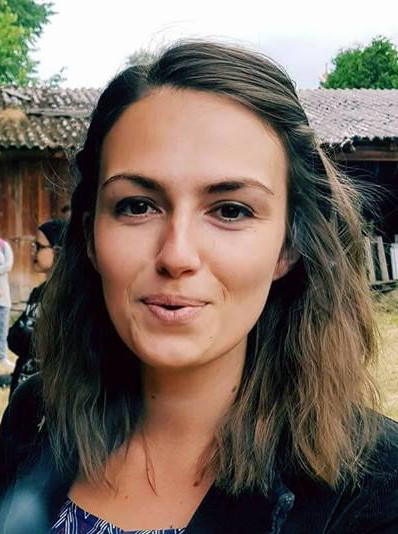
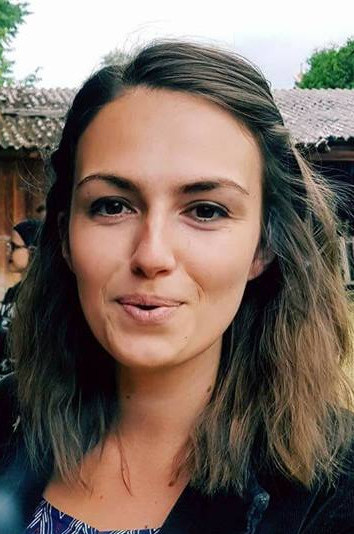
update

diff --git a/program/index.html b/program/index.html
@@ -5,11 +5,6 @@ description: Program Pirátů pro volby do zastupitelstva Jihočeského kraje.
 keywords: program, jihočeši, politika
 ---
 
-<em>
-  Program Pirátů pro volby do zastupitelstva Jihočeského kraje
-  konané ve dnech 7. a 8. října 2016.
-</em>
-
 <p>
   Naším cílem je kraj nové generace, kde může každý člověk svůj život prožít svobodně a naplno. Klíčem k prosperitě naší společnosti je otevřenost, transparentnost, svoboda informací, kvalitní veřejné služby, použití nových technologií a zapojení občanů
   do rozhodování. Piráti nabízí alternativu kraje bez korupce, nesmyslných dotací, politických trafik a klientelismu. Chceme, aby krajské úřady nebyly pro aktivní občany byrokratickou překážkou, nýbrž příležitostí zapojit se do veřejného dění a kultivace

diff --git a/kontakt/index.html b/kontakt/index.html
@@ -17,12 +17,24 @@ rbar: video, fb
   </div>
 </div>
 
-<h2>Kontakt</h2>
+
+<h3>Krajské předsednictvo</h3>
+
+<p>
+  Lukáš Kolářík (předseda, lídr parlamentních voleb), <a href="mailto:lukas.kolarik@pirati.cz">lukas.kolarik@pirati.cz</a>
+</p>
+
+<h3>místopředsedové</h3>
+
 <ul>
-  <li>
-    Lukáš Kolářík (předseda, lídr parlamentních voleb), <a href="mailto:lukas.kolarik@pirati.cz">lukas.kolarik@pirati.cz</a>
-  </li>
-  <li>
-    Jana Rohová (media, PR), <a href="mailto:jana.rohova@pirati.cz">jana.rohova@pirati.cz</a>
-  </li>
-<ul>
+  <li>Mgr. Václav Urban</li>
+  <li>Simon Kostadinov</li>
+  <li>Michal Horák</li>
+  <li>Jindra Matlachová</li>
+</ul>
+
+<h3>koordinátorka</h3>
+
+<p>
+  Jana Rohová (media, PR), <a href="mailto:jana.rohova@pirati.cz">jana.rohova@pirati.cz</a>
+</p>

diff --git a/_includes/scripts.html b/_includes/scripts.html
@@ -11,8 +11,30 @@
   ga('create', 'UA-83055026-1', 'auto');
   ga('send', 'pageview');
 
-  var api_search = null
+  var api_search = []
+  var api_people = []
+  var page_leader = null
+  var page_contact = null
 
+</script>
+
+<script>
+var back_top = function() {
+  $(window).scroll(function() {
+      if ($(this).scrollTop() > 50 ) {
+          $('.scrolltop:hidden').stop(true, true).fadeIn();
+      } else {
+          $('.scrolltop').stop(true, true).fadeOut();
+      }
+  });
+  $(function(){
+    $(".scroll").click(function(){
+      $("html,body").animate(
+        {scrollTop: $(".thetop").offset().top}, "1000");
+      return false
+    }
+  )});
+}
 </script>
 
 <script src="https://www.pirati.cz/assets/js/common-libs.min.js"></script>

diff --git a/blog/index.html b/blog/index.html
@@ -1,10 +1,10 @@
 ---
-layout: page
+layout: default
 rbar: video, fb
 ---
 
 <div class="row o-section-block o-section-block--divided">
-  <div class="small-12 columns">
+  <div class="small-12 large-8 columns">
     <section class="o-section o-section--noSpaceBottom o-section--bigger">
       <div class="o-section-inner o-section-inner--leftBlock">
         {% for article in paginator.posts %}
@@ -15,6 +15,11 @@ rbar: video, fb
       </div>
     </section>
   </div>
+
+  <div class="medium-12 large-4 columns">
+    {% include rbar.html %}
+  </div>
+
 </div>
 
 {% include shared/article-list/pagination.html %}

diff --git a/_includes/title_hero.html b/_includes/title_hero.html
@@ -72,7 +72,7 @@
                 <div class="small-6 columns">
                   <a href="{{ 'volby' | relative_url }}" class="c-card c-card--border">
                     <div class="c-card-header">
-                      <div class="c-card__title"> Volby parlament 2017</div>
+                      <div class="c-card__title"> Parlamentní volby</div>
                     </div>
                     <div class="c-card__icon c-card__icon--pos2">
                       <i class="fa fa-newspaper-o u-rotate-345" aria-hidden="true"></i>

diff --git a/volby/index.html b/volby/index.html
@@ -7,7 +7,7 @@ rbar: video, fb
 ---
 
 <p>
-  Na podzim letošního roku se budou konat volby do parlamentu.
+  <b>20. 10. 2017 – 21. 10. 2017</b> se budou konat volby do parlamentu.
   <a href="http://pirati.cz" target="_blank">Česká pirátská strana</a> neprichází s ničím jiným než v minulosti.
   Neuhýbáme, neměníme program podle populistických témat.
   Od nás máte vše hezky <a href="http://cernenabilem2017.cz" target="_blank">černé na bílém</a>.

diff --git a/static/custom-style.css b/static/custom-style.css
@@ -1,6 +1,7 @@
 
 img.people {
   width: 150px;
+  height: 250px;
 }
 
 .top-bar-title {
@@ -21,6 +22,15 @@ article img {
 
 
 .c-welcome-header {
-  background: url('/assets/img/mainback.jpg') no-repeat;
+  background: none;
+  /*background: url('/assets/img/mainback.jpg') no-repeat;*/
   background-size: cover;
+}
+
+.pagination {
+  list-style-type: none;
+}
+
+.c-welcome-header .c-welcome-header-wrapper.c-welcome-header-wrapper--wbg:before {
+  background: none;
 }

diff --git a/o-nas/index.md b/o-nas/index.md
@@ -1,8 +1,8 @@
 ---
 title: O nás
 layout: page
-description: Program Pirátů pro volby do zastupitelstva Jihočeského kraje.
-keywords: program, jihočeši, politika
+description: rozcestník na jednotlivé pirátské buňky v jihočeském kraji
+keywords: organizace, politika, kraj
 rbar: video, people
 ---
 
@@ -16,6 +16,7 @@ V rámci kraje se našim zastupitelům daří úspěšně zavádět transparentn
 - [Jindřichův Hradec](http://otevrenyhradec.cz/)
 - [Písek](https://www.pirati.cz/regiony/jiznicechy/pisecko/start): zastupitelem člen Pirátů Martin Brož.
 - [Soběslav](http://pirati.sobeslav.cz/): na radnici za vás bojují Pirátští zastupitelé Martin Kákona a Iveta Matějů.
-- #### [Tábor](http://tabor.pirati.cz)
-  jsme součástí hnutí [JINAK!](http://www.taborjinak.cz), které má tři zastupitele.
+- [Tábor](http://tabor.pirati.cz) jsme součástí hnutí [JINAK!](http://www.taborjinak.cz), které má tři zastupitele.
 - [Trhové Sviny](http://volbats.cz/): Náš člen Petr Steinbauer prosazuje Pirátský program ve spolupráci s [Volbou pro město](http://volbats.cz/).
+- [Týn nad Vltavou](https://www.facebook.com/PiratiTyn/)
+- [České Budějovice](https://www.facebook.com/PiratiCB/)
